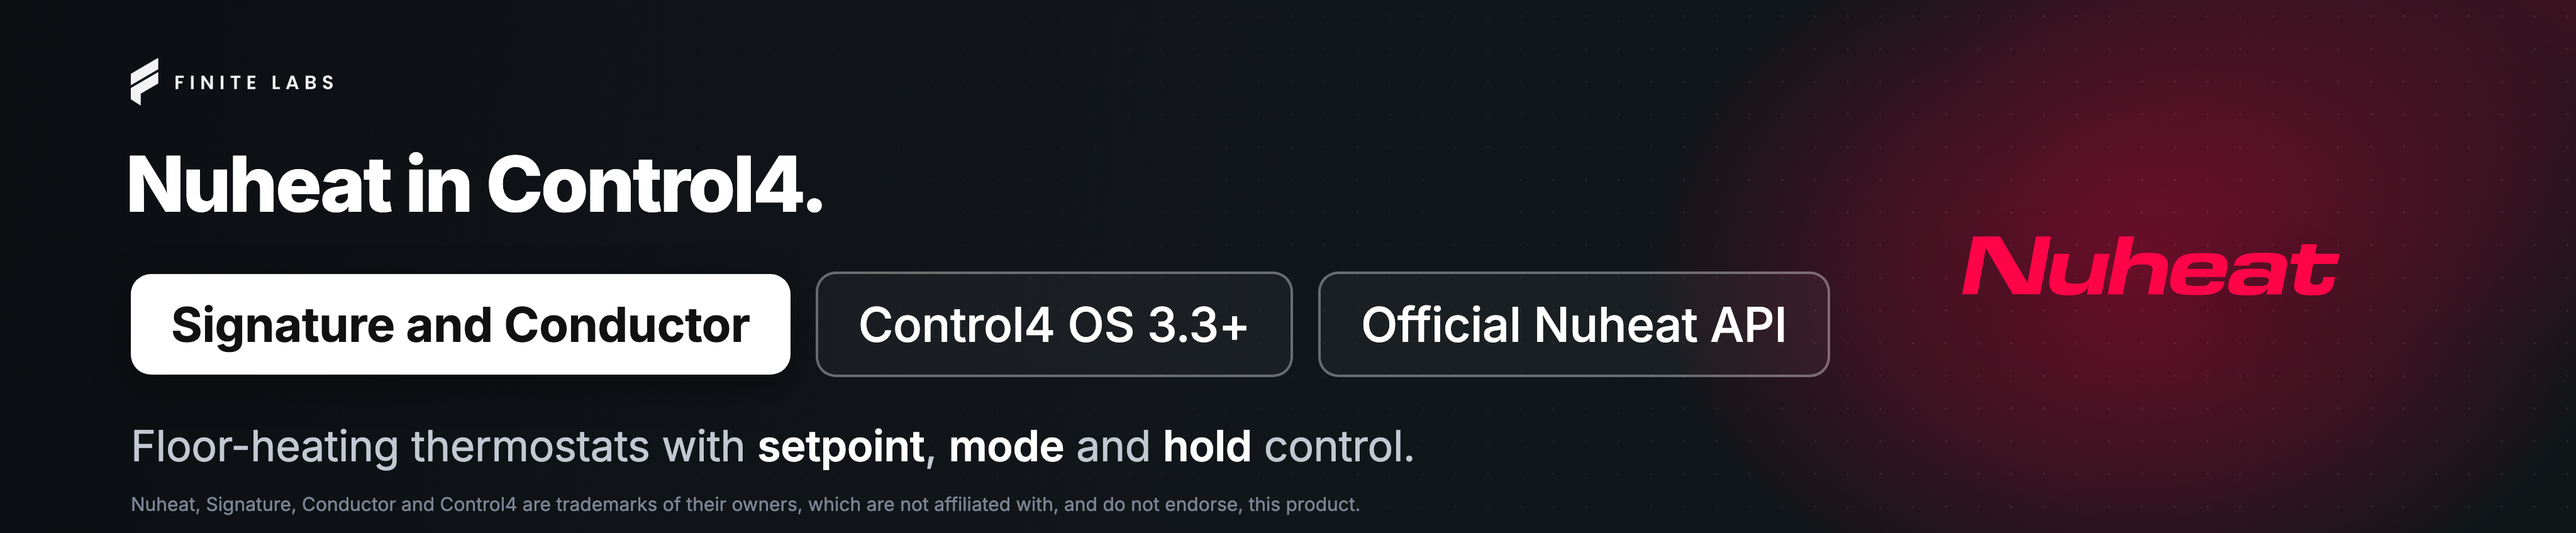
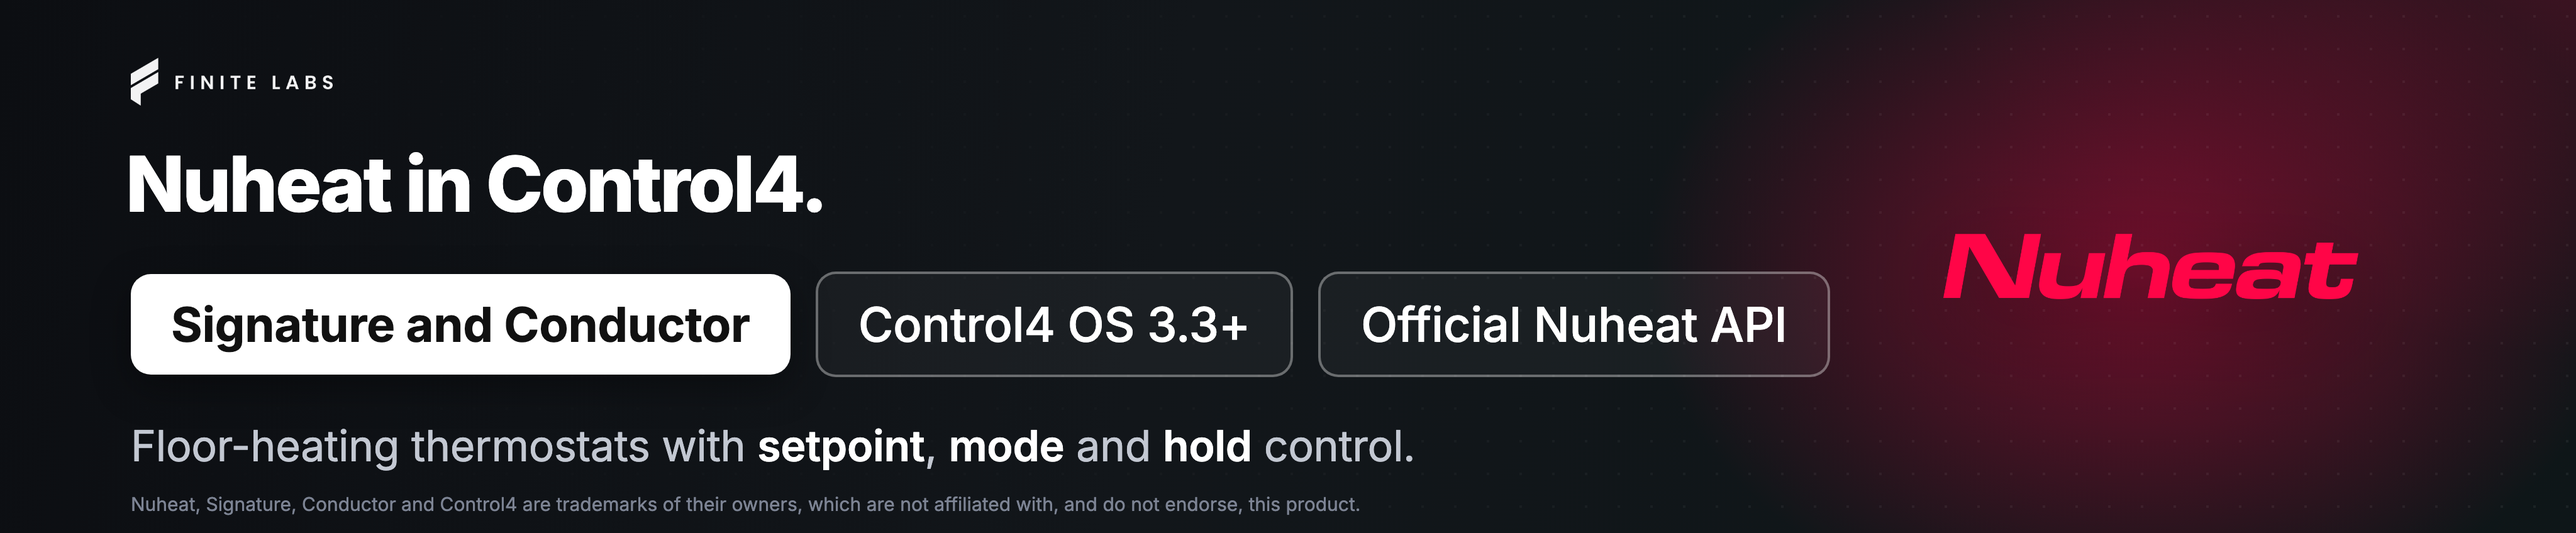
chore: the spotlight and launch-post marks are sized up to match across the drivers

Changed region(s): [[0.75, 0.4292, 0.9375, 0.5825]]

diff --git a/resources/drivercentral/banners/spotlight-4096x848.html b/resources/drivercentral/banners/spotlight-4096x848.html
@@ -20,7 +20,7 @@
   .chip.line { color: #fff; border: 2px solid rgba(255,255,255,0.35); background: rgba(255,255,255,0.04); font-weight: 500; }
   .sub { position: absolute; left: 104px; top: 334px; color: #c3c8d2; font-size: 34px; font-weight: 400; letter-spacing: -0.005em; white-space: nowrap; }
   .sub em { font-style: normal; color: #fff; font-weight: 600; }
-  .mark { position: absolute; left: 1560px; top: 188px; width: 300px; height: 47px; object-fit: contain; filter: drop-shadow(0 18px 40px rgba(0,0,0,0.45)); }
+  .mark { position: absolute; left: 1545px; top: 186px; width: 330px; height: 52px; object-fit: contain; filter: drop-shadow(0 18px 40px rgba(0,0,0,0.45)); }
   .note { position: absolute; left: 104px; bottom: 14px; color: #7d8494; font-size: 15px; letter-spacing: 0; white-space: nowrap; }
 </style></head>
 <body>

diff --git a/resources/drivercentral/banners/launch-post-2400x1200.html b/resources/drivercentral/banners/launch-post-2400x1200.html
@@ -21,7 +21,7 @@
   .chip.line { color: #fff; border: 1.5px solid rgba(255,255,255,0.35); background: rgba(255,255,255,0.04); font-weight: 500; }
   .sub { margin: 32px 0 0 2px; color: #c3c8d2; font-size: 24px; line-height: 1.4; font-weight: 400; letter-spacing: -0.005em; }
   .sub em { font-style: normal; color: #fff; font-weight: 600; }
-  .mark { position: absolute; left: 814px; top: 281px; width: 240px; height: 38px; object-fit: contain; filter: drop-shadow(0 14px 32px rgba(0,0,0,0.45)); }
+  .mark { position: absolute; left: 780px; top: 276px; width: 300px; height: 47px; object-fit: contain; filter: drop-shadow(0 14px 32px rgba(0,0,0,0.45)); }
   .note { position: absolute; left: 74px; right: 74px; bottom: 20px; color: #7d8494; font-size: 13px; line-height: 1.35; }
 </style></head>
 <body>
